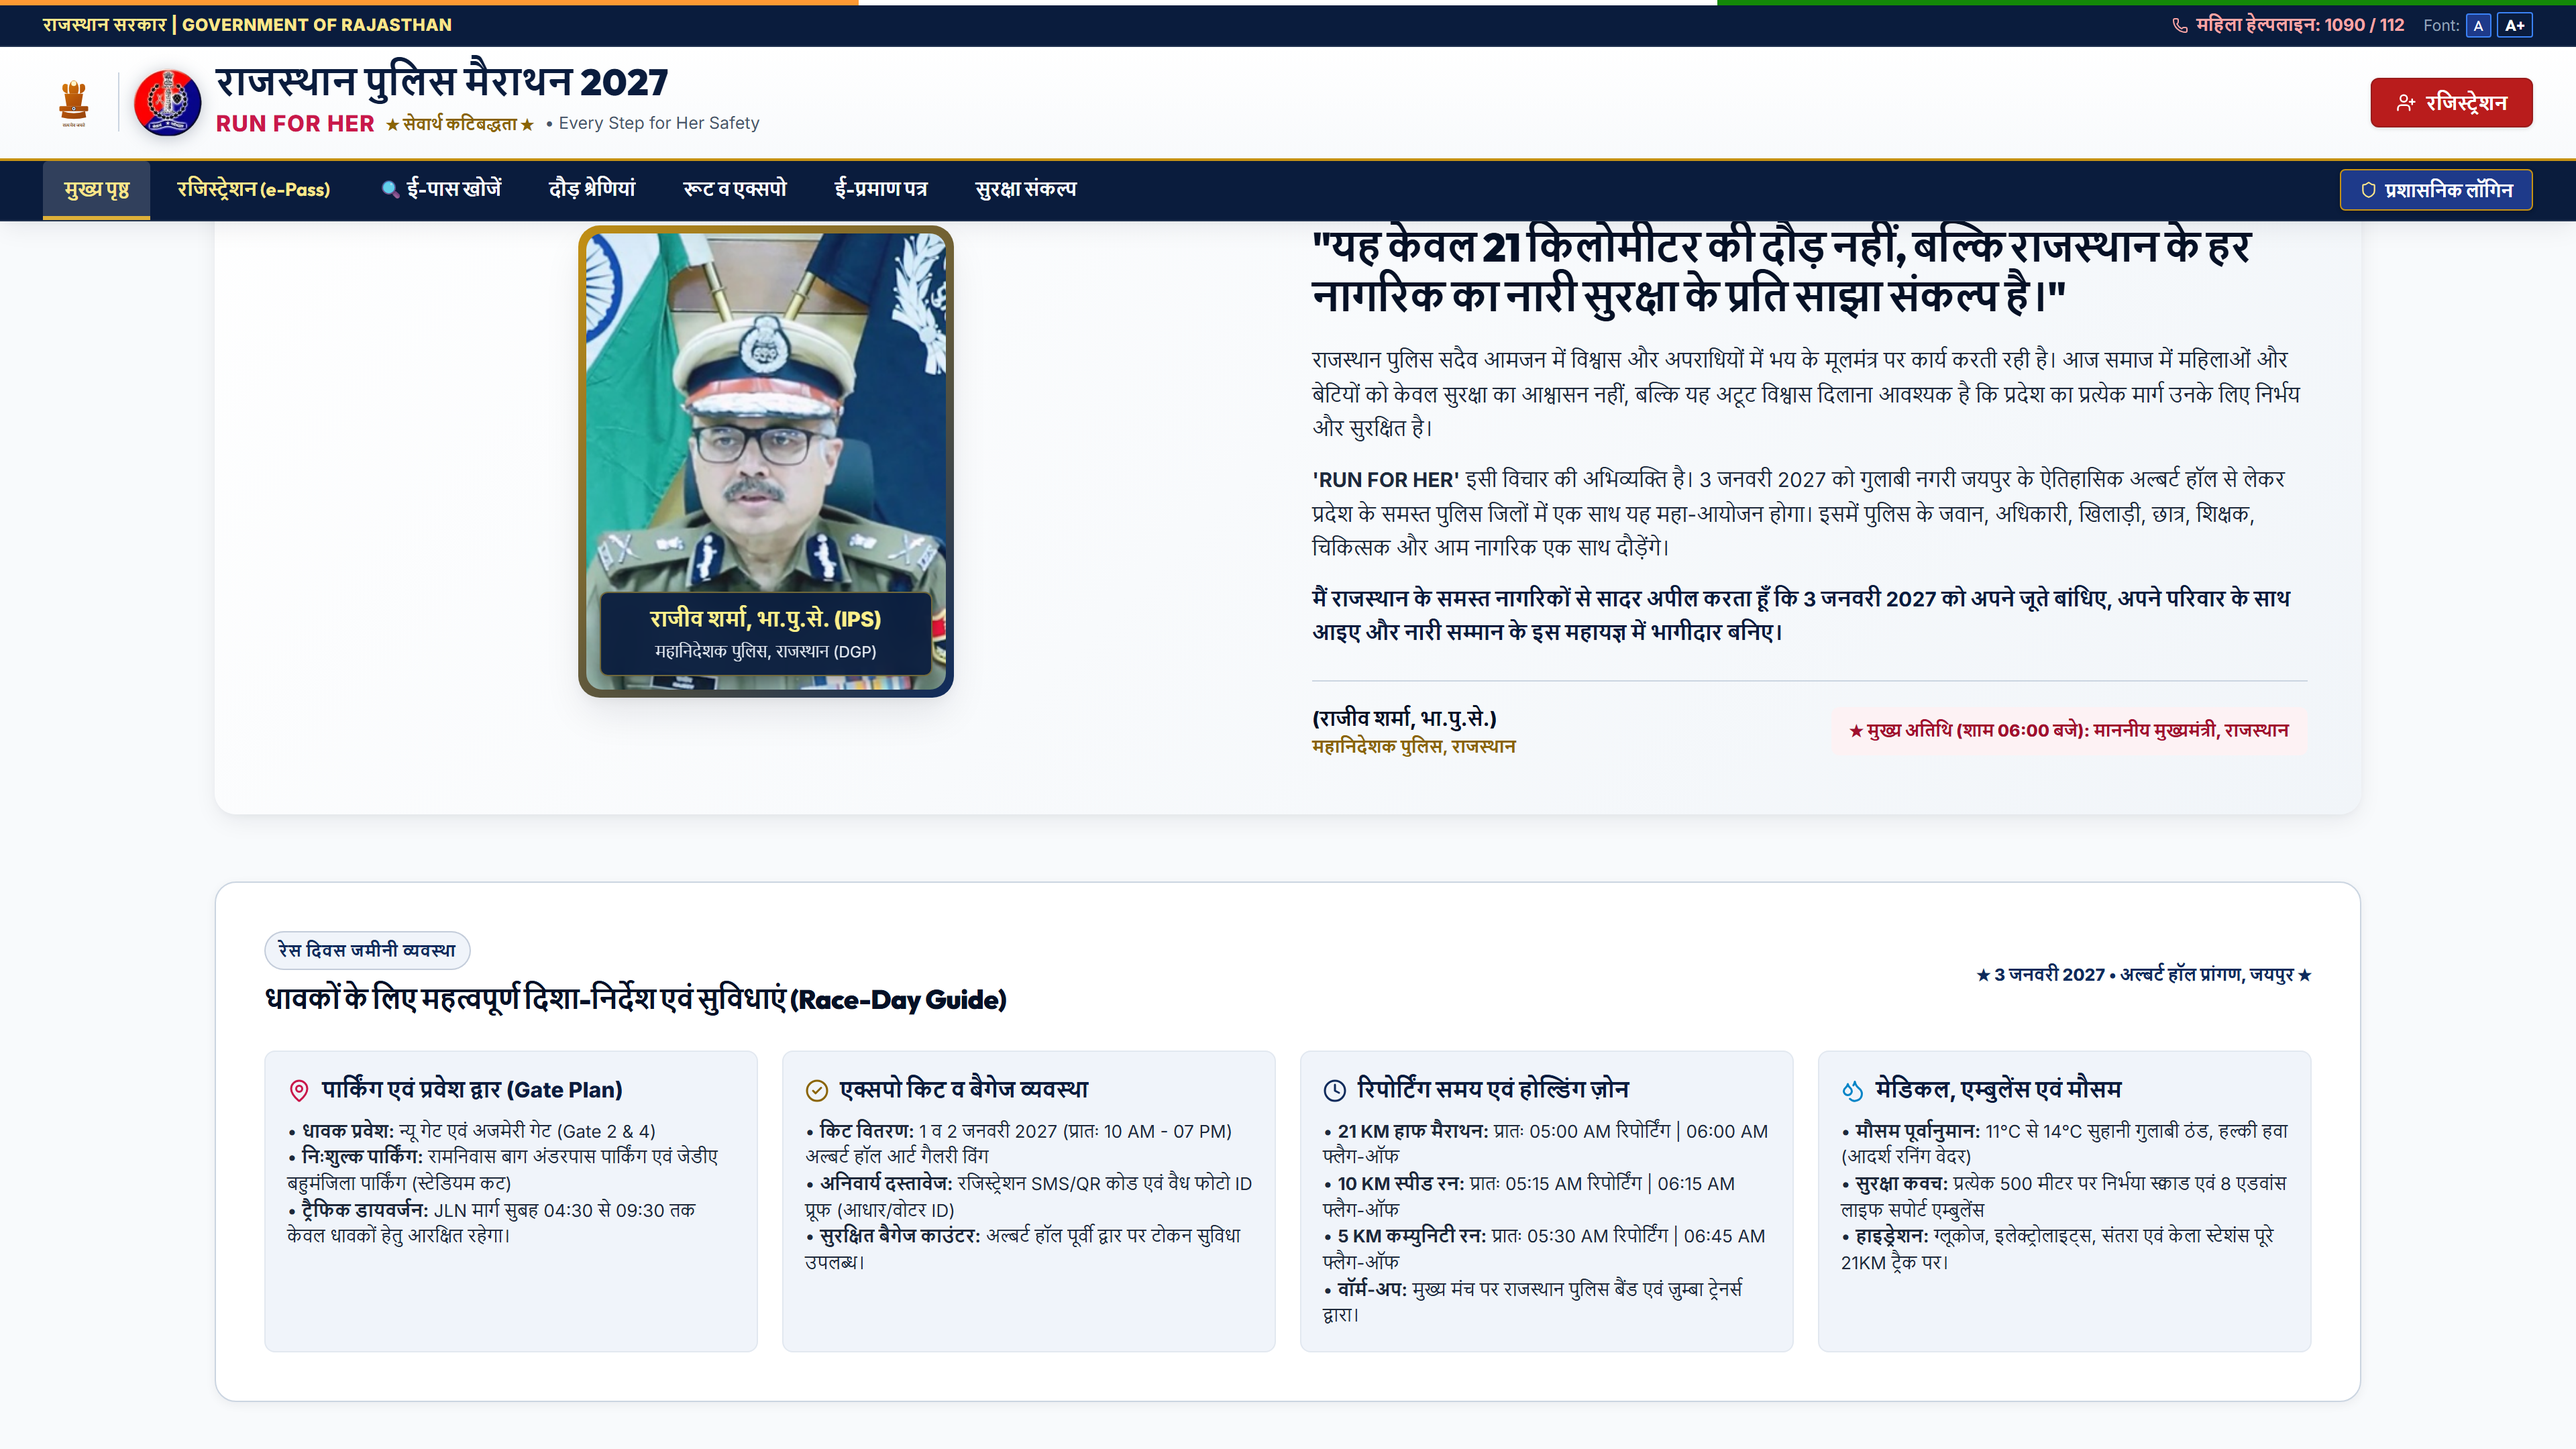
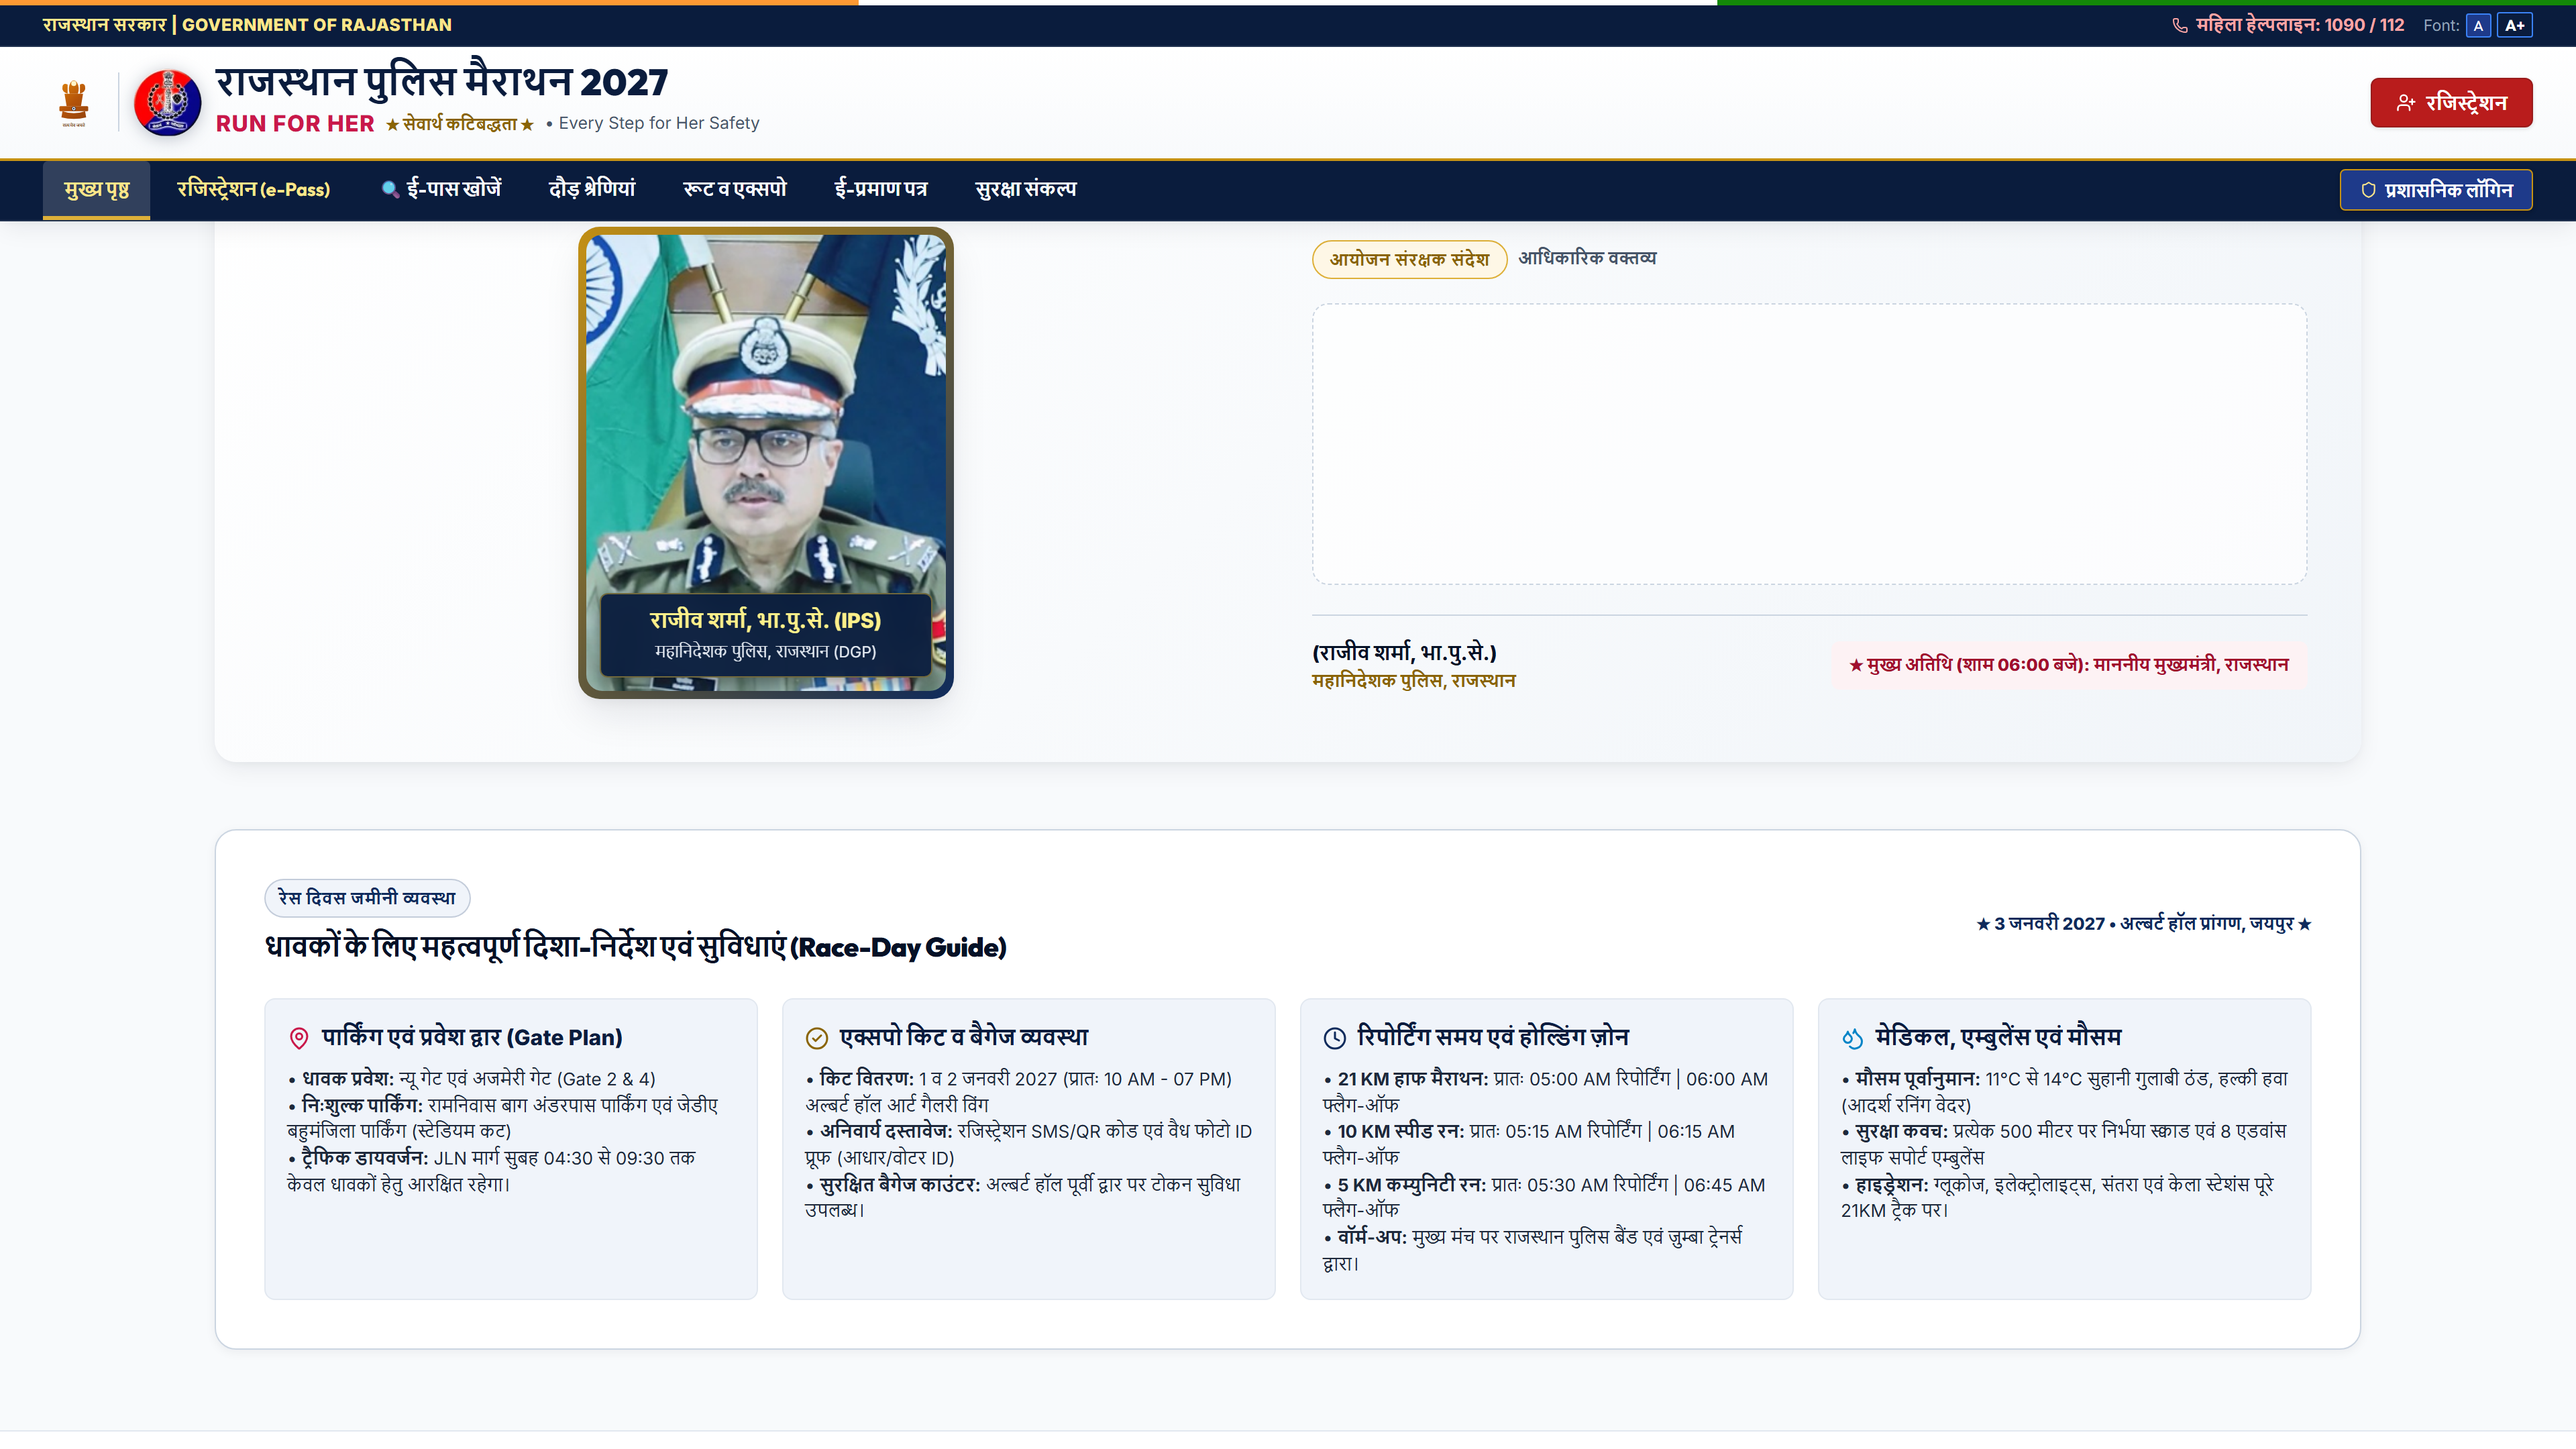
feat: blank out DGP message section and sanitize DGP text in hero, podium, and footer

diff --git a/src/components/PatronDesk.jsx b/src/components/PatronDesk.jsx
@@ -93,20 +93,14 @@ export function PatronDesk() {
                 <span className="badge-gold">आयोजन संरक्षक संदेश</span>
                 <span style={{ fontSize: '0.78rem', color: 'var(--text-muted)', fontWeight: 700 }}>आधिकारिक वक्तव्य</span>
               </div>
-              <h2 style={{ fontSize: 'clamp(1.4rem, 2.5vw, 1.85rem)', fontWeight: 900, color: 'var(--police-navy-950)', margin: '0 0 16px 0', lineHeight: 1.25 }}>
-                "यह केवल 21 किलोमीटर की दौड़ नहीं, बल्कि राजस्थान के हर नागरिक का नारी सुरक्षा के प्रति साझा संकल्प है।"
-              </h2>
-
-              <div style={{ fontSize: '0.94rem', color: 'var(--text-body)', lineHeight: 1.7, display: 'flex', flexDirection: 'column', gap: '12px' }}>
-                <p style={{ margin: 0 }}>
-                  राजस्थान पुलिस सदैव आमजन में विश्वास और अपराधियों में भय के मूलमंत्र पर कार्य करती रही है। आज समाज में महिलाओं और बेटियों को केवल सुरक्षा का आश्वासन नहीं, बल्कि यह अटूट विश्वास दिलाना आवश्यक है कि प्रदेश का प्रत्येक मार्ग उनके लिए निर्भय और सुरक्षित है।
-                </p>
-                <p style={{ margin: 0 }}>
-                  <strong>'RUN FOR HER'</strong> इसी विचार की अभिव्यक्ति है। 3 जनवरी 2027 को गुलाबी नगरी जयपुर के ऐतिहासिक अल्बर्ट हॉल से लेकर प्रदेश के समस्त पुलिस जिलों में एक साथ यह महा-आयोजन होगा। इसमें पुलिस के जवान, अधिकारी, खिलाड़ी, छात्र, शिक्षक, चिकित्सक और आम नागरिक एक साथ दौड़ेंगे।
-                </p>
-                <p style={{ margin: 0, fontWeight: 700, color: 'var(--police-navy-900)' }}>
-                  मैं राजस्थान के समस्त नागरिकों से सादर अपील करता हूँ कि 3 जनवरी 2027 को अपने जूते बांधिए, अपने परिवार के साथ आइए और नारी सम्मान के इस महायज्ञ में भागीदार बनिए।
-                </p>
+              {/* DGP Official Written Message Area - Left blank per instructions */}
+              <div style={{
+                minHeight: '210px',
+                background: 'rgba(255, 255, 255, 0.7)',
+                borderRadius: '12px',
+                border: '1.5px dashed var(--border-medium)',
+                margin: '18px 0'
+              }}>
               </div>
 
               {/* Official Stamp & Sign Off */}

diff --git a/src/components/Hero.jsx b/src/components/Hero.jsx
@@ -32,7 +32,7 @@ export function Hero({ onOpenRegister, onOpenFindPass, totalRegistered = "1000+"
   const notices = [
     { text: "राजस्थान पुलिस मैराथन 'RUN FOR HER' — रेस दिवस: 3 जनवरी 2027", tag: "इवेंट तिथि" },
     { text: "अल्बर्ट हॉल, जयपुर एवं प्रदेश के समस्त पुलिस जिलों में एक साथ भव्य आयोजन", tag: "वेन्यू" },
-    { text: "प्रातः 06:00 बजे फ्लैग-ऑफ पुलिस महानिदेशक (DGP) राजीव शर्मा (IPS) द्वारा", tag: "फ्लैग-ऑफ" },
+    { text: "प्रातः 06:00 बजे फ्लैग-ऑफ ऐतिहासिक अल्बर्ट हॉल, जयपुर से", tag: "फ्लैग-ऑफ" },
     { text: "21K, 10K, 5K एवं 2K श्रेणियों हेतु आधिकारिक ऑनलाइन पंजीकरण जारी है", tag: "पंजीकरण" },
     { text: "आधिकारिक डिजिटल ई-पास व क्यूआर कोड तुरंत डाउनलोड करें", tag: "ई-पास पोर्टल" },
     { text: "महिला सुरक्षा हेल्पलाइन 1090 (गरिमा) एवं 112 चौबीसों घंटे आपकी सेवा में तत्पर", tag: "सुरक्षा" }
@@ -198,7 +198,7 @@ export function Hero({ onOpenRegister, onOpenFindPass, totalRegistered = "1000+"
               lineHeight: 1.6,
               textShadow: '0 2px 10px rgba(0,0,0,0.6)'
             }}>
-              <strong>3 जनवरी 2027</strong> को पुलिस महानिदेशक (DGP) <strong>राजीव शर्मा (IPS)</strong> के नेतृत्व में जयपुर के ऐतिहासिक अल्बर्ट हॉल से 10,000+ नागरिकों का फ्लैगशिप रन एवं प्रदेश के सभी 41 पुलिस जिलों व कमिश्नरेट में एक साथ 5KM/10KM कम्युनिटी रन।
+              <strong>3 जनवरी 2027</strong> को जयपुर के ऐतिहासिक अल्बर्ट हॉल से 10,000+ नागरिकों का फ्लैगशिप रन एवं प्रदेश के सभी 41 पुलिस जिलों व कमिश्नरेट में एक साथ 5KM/10KM कम्युनिटी रन।
             </p>
 
             {/* Action CTAs - Responsive Full-Width on Mobile, Thumb Reachable */}

diff --git a/src/components/PrizePodiumSection.jsx b/src/components/PrizePodiumSection.jsx
@@ -337,7 +337,7 @@ export function PrizePodiumSection({ onOpenRegister }) {
                 ★ आधिकारिक नियम: नकद पुरस्कार केवल जयपुर मुख्य फ्लैगशिप (अल्बर्ट हॉल) ओपन पोडियम हेतु मान्य
               </div>
               <div style={{ fontSize: '0.78rem', color: '#94a3b8' }}>
-                पुरस्कार राशि महिला व पुरुष दोनों वर्गों के संयुक्त ओपन परिणाम पर DGP राजस्थान द्वारा पोडियम पर वितरित की जाएगी।
+                पुरस्कार राशि महिला व पुरुष दोनों वर्गों के संयुक्त ओपन परिणाम पर पोडियम पर वितरित की जाएगी।
               </div>
             </div>
           </div>

diff --git a/src/components/BroadcastCommandCenter.jsx b/src/components/BroadcastCommandCenter.jsx
@@ -87,7 +87,7 @@ const CAMPAIGNS = [
 मैराथन दिवस में केवल कुछ घंटे शेष हैं! अपनी तैयारी पूर्ण रखें:
 
 ⏰ *रिपोर्टिंग समय:* प्रातः 05:00 AM (3 जनवरी 2027)
-🏁 *फ्लैग-ऑफ:* प्रातः 06:00 AM शार्प (DGP राजीव शर्मा, IPS द्वारा)
+🏁 *फ्लैग-ऑफ:* प्रातः 06:00 AM शार्प (अल्बर्ट हॉल, जयपुर)
 📍 *स्थान:* अल्बर्ट हॉल म्यूजियम gantry, रामनिवास बाग, जयपुर
 🅿 *निःशुल्क पार्किंग:* रामनिवास बाग अंडरपास एवं जेडीए बहुमंजिला पार्किंग (स्टेडियम कट)
 

diff --git a/src/components/Footer.jsx b/src/components/Footer.jsx
@@ -67,7 +67,7 @@ export function Footer({ onNavigate }) {
               </div>
             </div>
             <p style={{ fontSize: '0.8rem', color: '#cbd5e1', lineHeight: 1.6 }}>
-              महानिदेशक पुलिस <strong>राजीव शर्मा (IPS)</strong> के नेतृत्व में महिला सुरक्षा, सम्मान, समानता एवं सशक्तीकरण को समर्पित राज्यव्यापी जनसहभागिता अभियान।
+              राजस्थान पुलिस द्वारा महिला सुरक्षा, सम्मान, समानता एवं सशक्तीकरण को समर्पित राज्यव्यापी जनसहभागिता अभियान।
             </p>
           </div>
 
